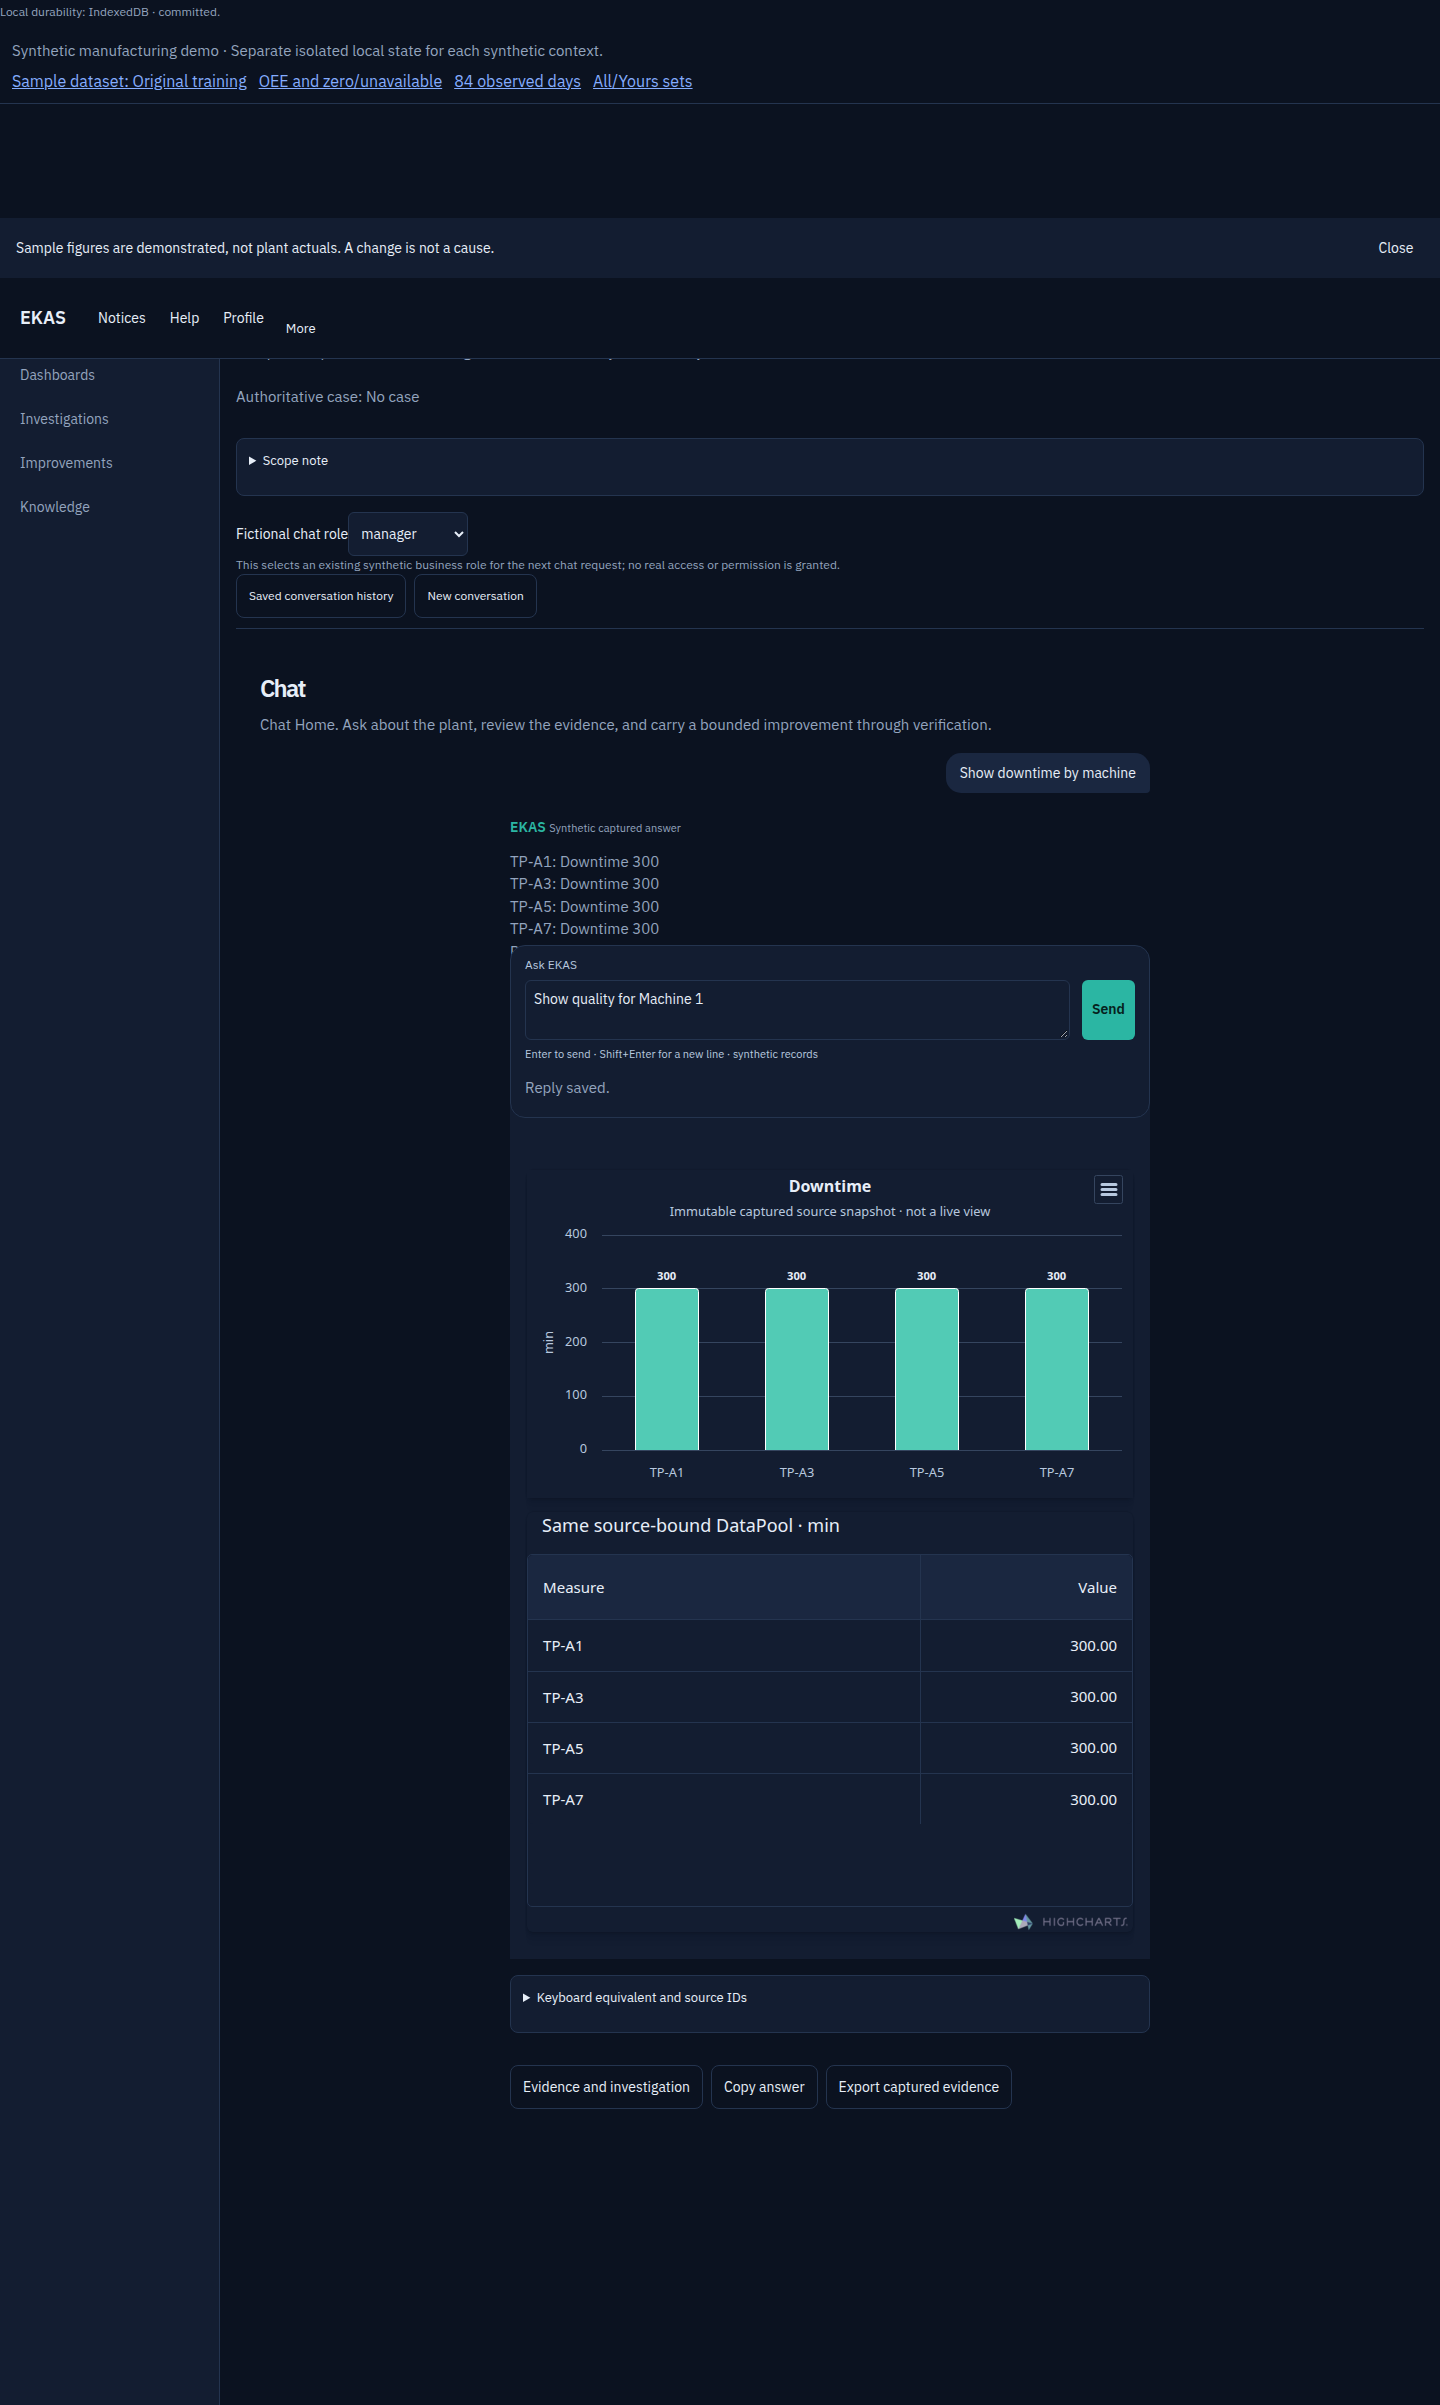
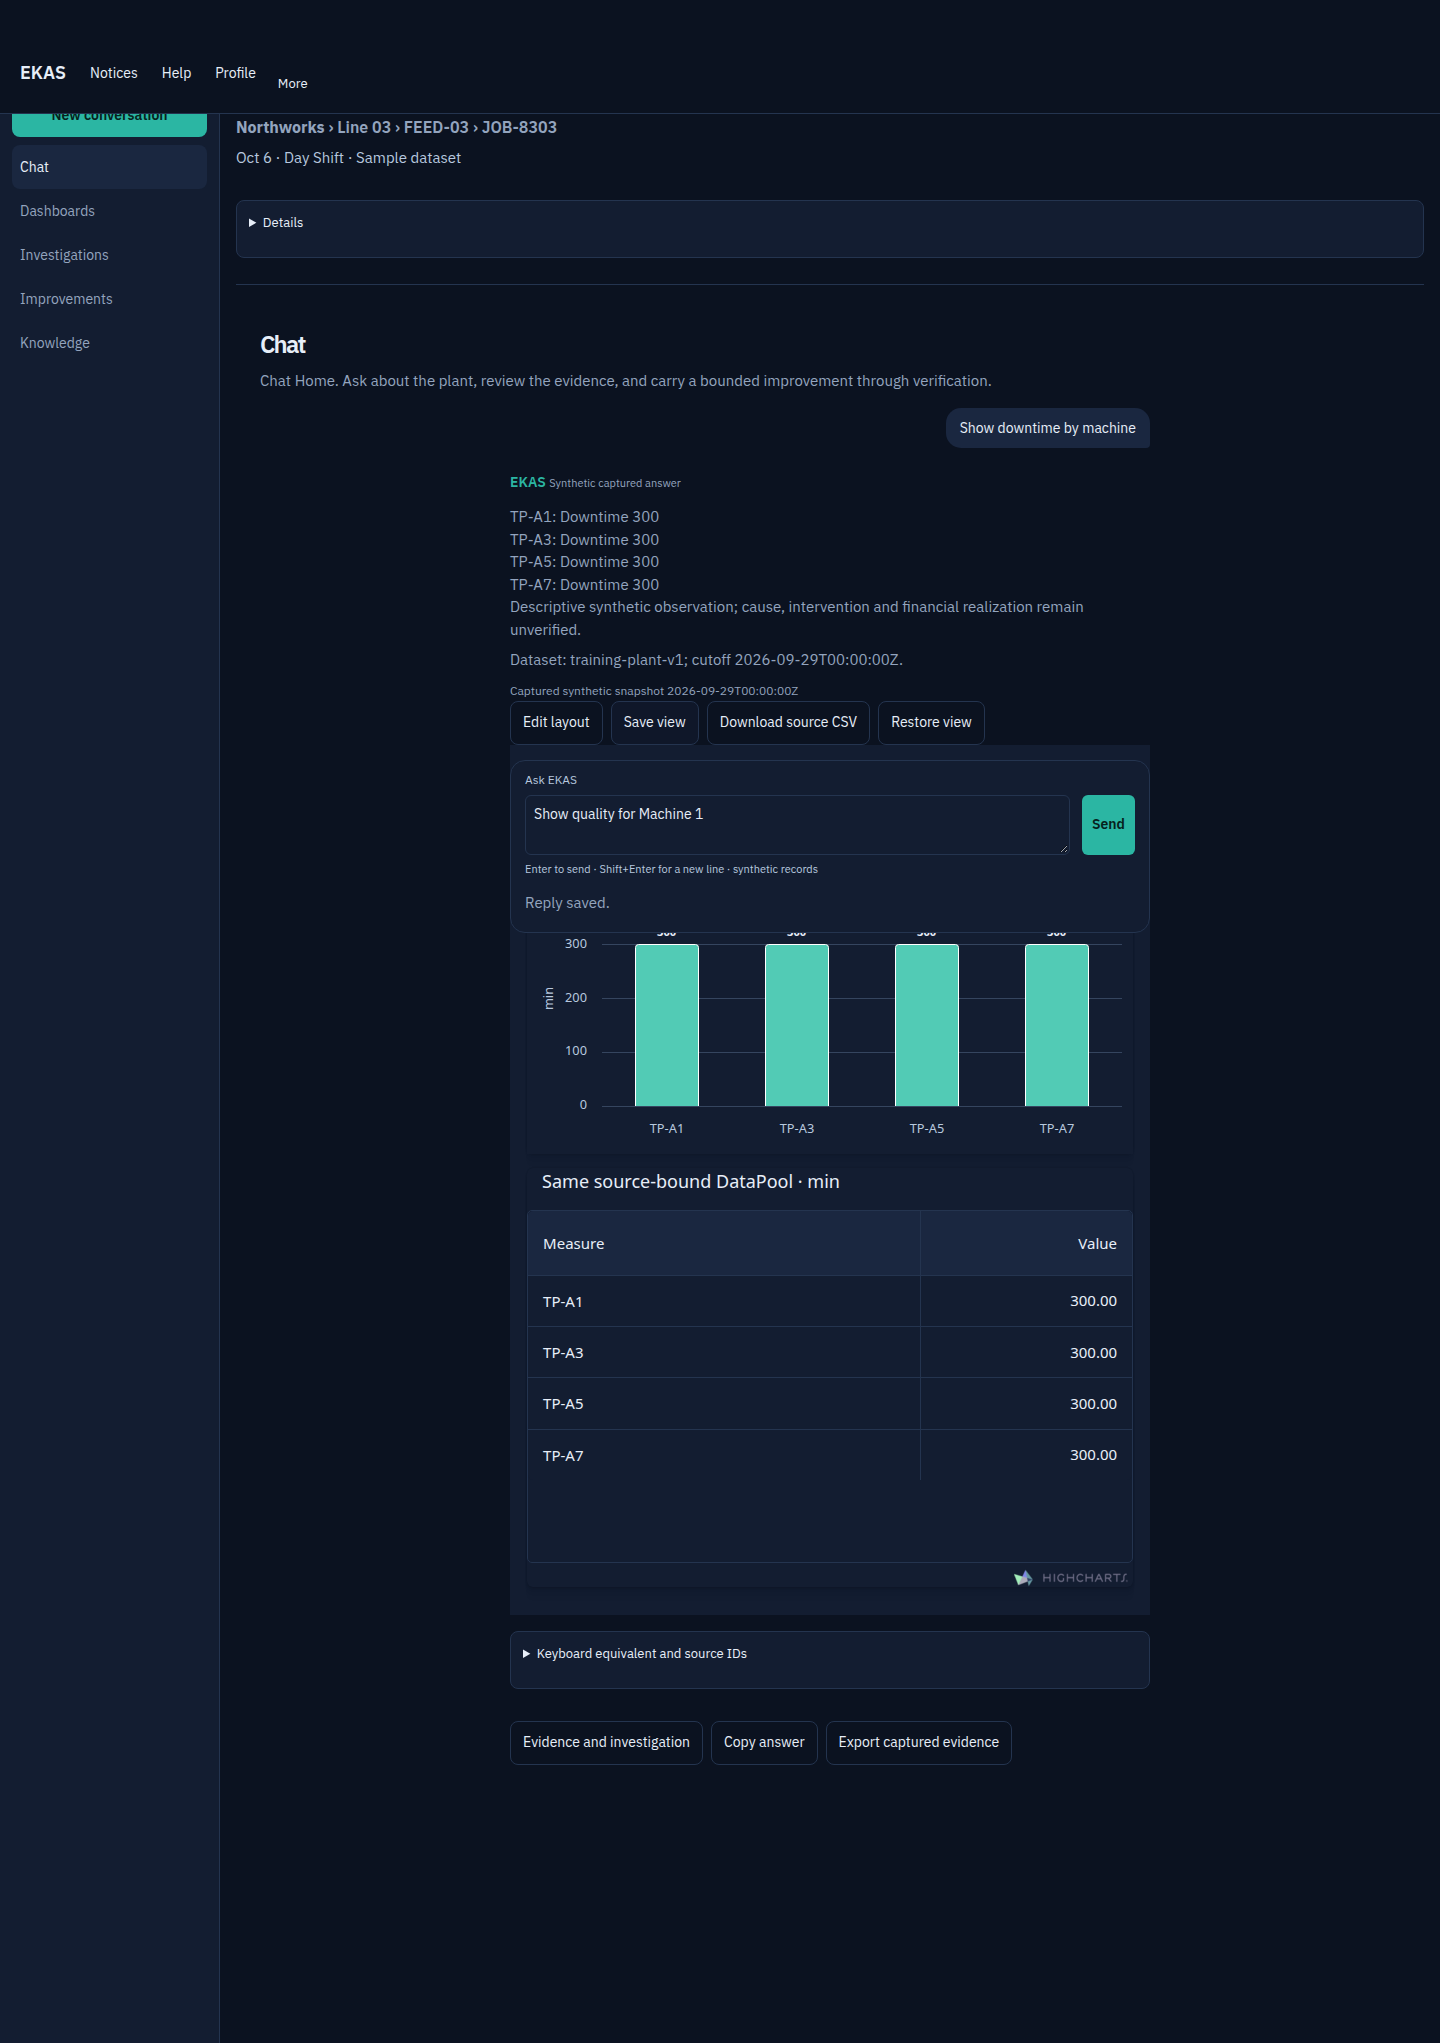
Capture the corrected plant shell for independent visual review.
The walk-through now checks composer clearance and evidence order, and adds the plant-review and 320-wide investigation shots.

diff --git a/e2e/shell-walkthrough.spec.ts b/e2e/shell-walkthrough.spec.ts
@@ -76,7 +76,7 @@ test('plant shell walk-through of the six acceptance states', async ({ page }) =
     expect(at, label).toBeGreaterThan(cursor);
     cursor = at;
   }
-  expect(evidenceText.indexOf('Saved with this reply')).toBeGreaterThan(evidenceText.indexOf('Relevant evidence'));
+  expect(evidenceText).not.toContain('Saved with this reply');
   await page.screenshot({ path: `${shots}/05-evidence.png`, fullPage: true });
   await page.keyboard.press('Escape');
 
